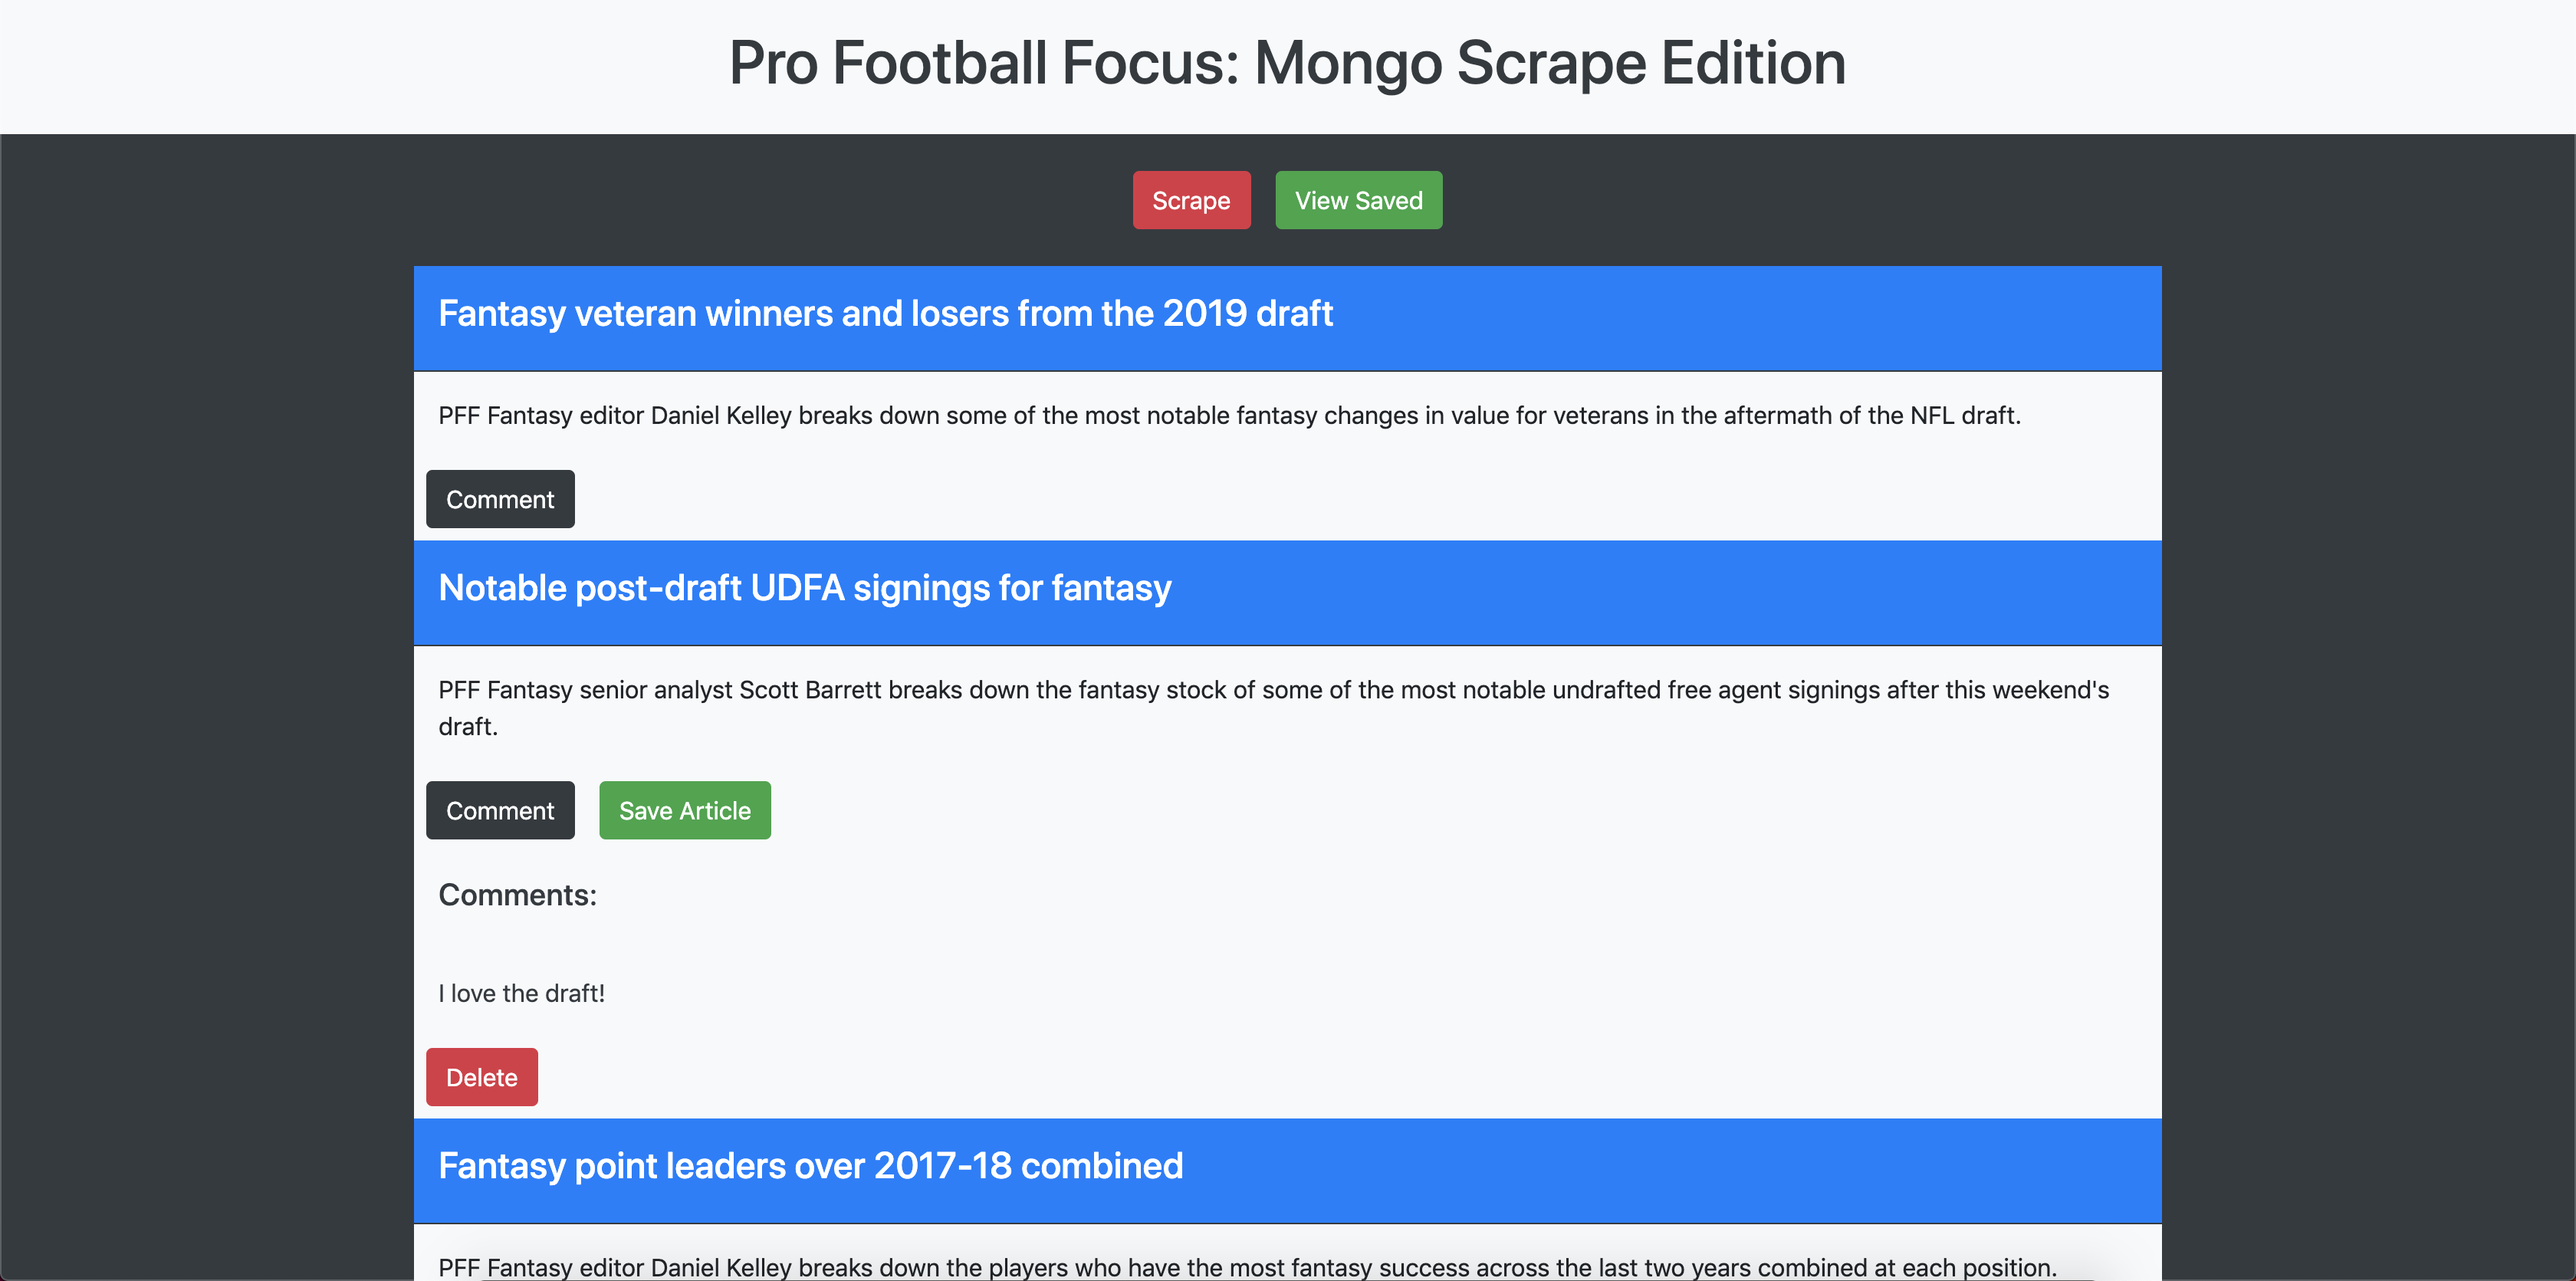
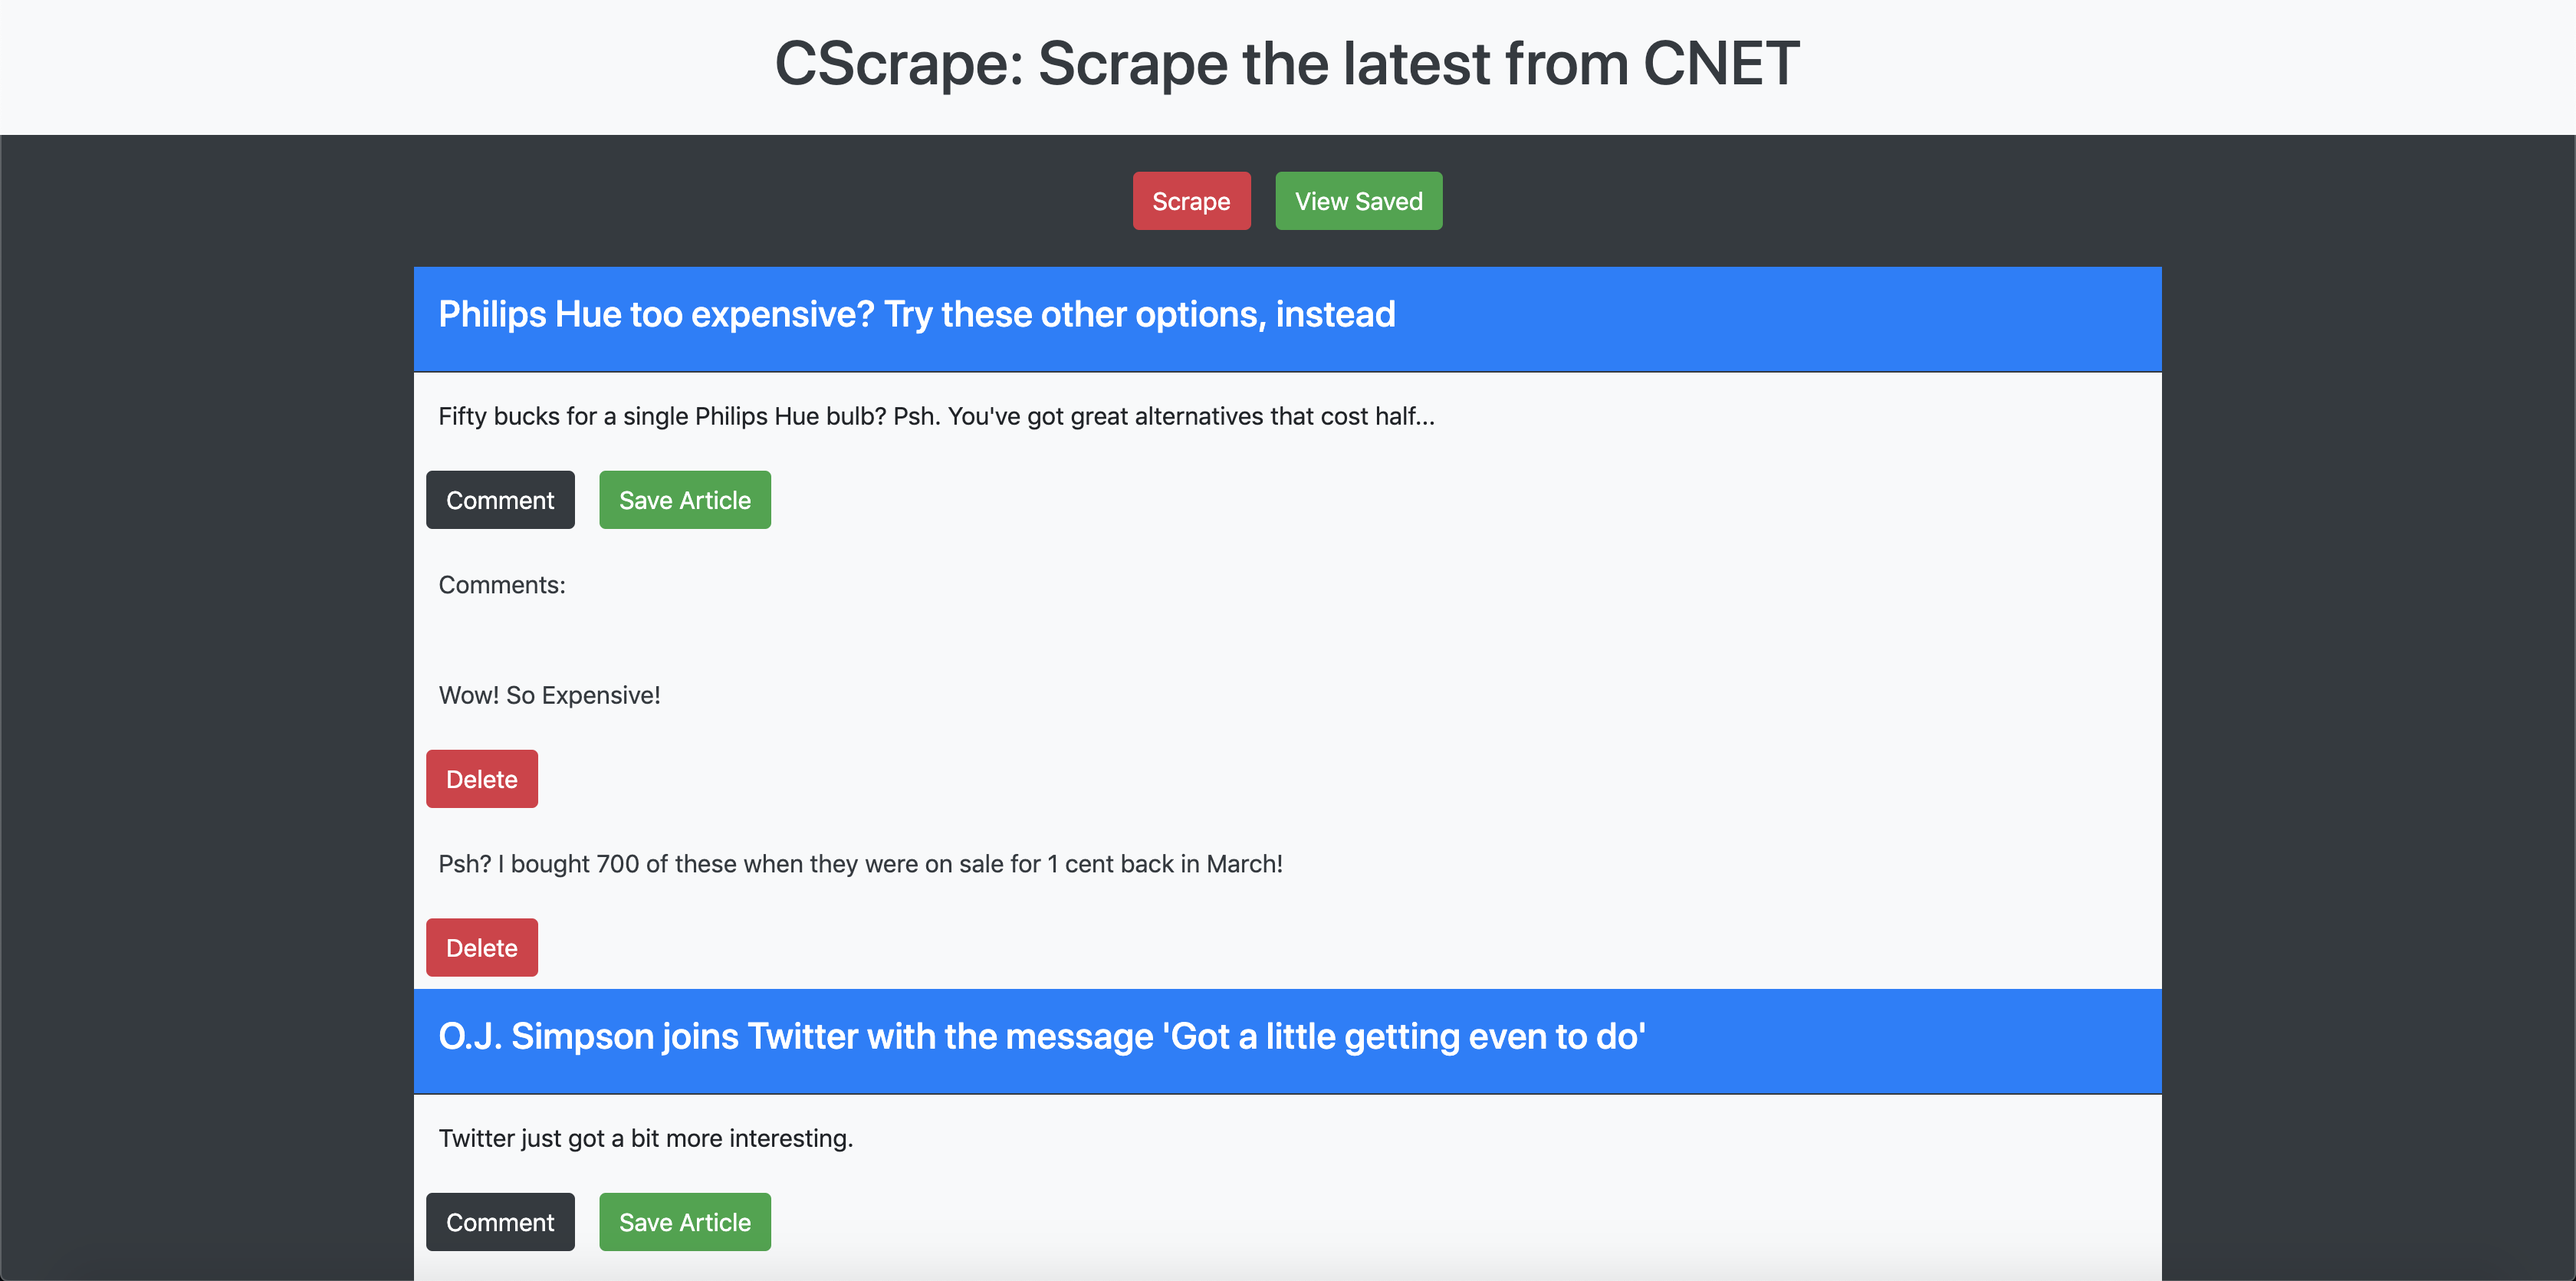
Updated ReadME to reflect changes to project

diff --git a/README.md b/README.md
@@ -4,11 +4,7 @@
 
 ## Description
 
-Update 6/18/2019: This project has been updated to scrape CNET instead of profootballfocus.com. I was unable to get the site working correctly using the new layout from PFF. I will continue to make small updates to this project to reflect the change to CNET.
-
-Note: As of 6/18/2019, this project is currently broken due to changes at profootballfocus.com. I am currently working on fixing the issues and considering using a different site to scrape.
-
-ProFootballFocus Scrape uses the web scraping technique to generate the latest NFL news and analysis from profootballfocus.com. Users can scrape for more news, find links to the lastest news, leave comments, and save articles to read for later.
+CScrape uses the web scraping technique to generate the latest tech news and rumors from cnet.com. Users can scrape for more news, find links to the lastest news, leave comments, and save articles to read for later.
 
 [Deployed Version](https://murmuring-coast-63656.herokuapp.com/)
 
@@ -56,5 +52,5 @@ Contributions to this project are welcome. Feel free to fix current issues or ad
 
 ## Future versions
 
-- Improve current interface for a more pleasing experience and easier navigation
+- Improve current interface for a more pleasent experience and easier navigation
 - Improve the saved articles page by allowing comments
